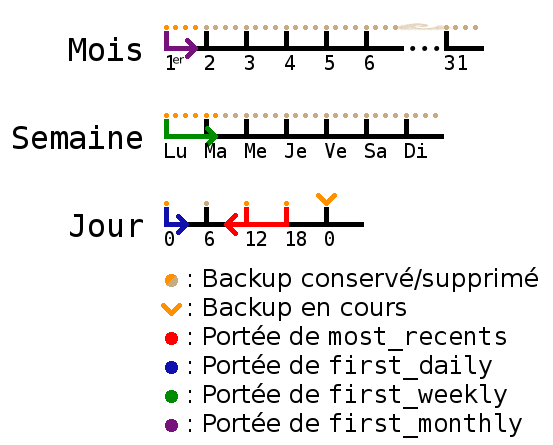
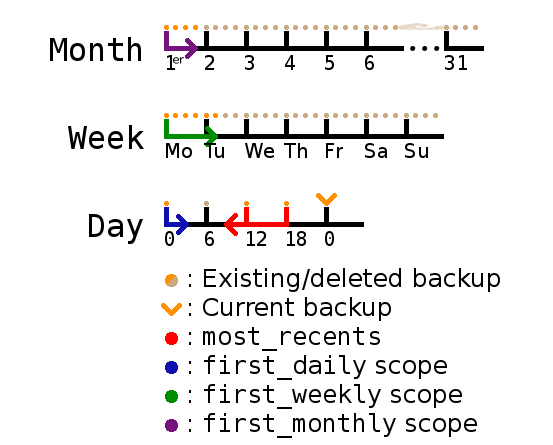
Translated documentation into english

diff --git a/README.md b/README.md
@@ -1,10 +1,20 @@
 # Backupper
 
-Un simple utilitaire de backup de fichiers configurable en YAML.
+A simple backup utility. Configurable with a YAML file.
 
-Voir `./backupper.py -h` pour l'utilisation de la commande.
+See `./backupper.py -h` for command usage.
 
-backupfile.yml minimal :
+## Setup
+
+```
+    sudo ./setup.py install
+    # ou, pour l'installer pour l'utilisateur courant
+    ./setup.py install --user
+```
+
+## Configuration reference
+
+### Minimal backupfile.yml
 
 ```
 backup_dir: /racine/du/dossier/de/sauvegarde
@@ -15,37 +25,27 @@ artifacts:
     - et/caetera
 ```
 
-## Installation
-
-```
-    sudo ./setup.py install
-    # ou, pour l'installer pour l'utilisateur courant
-    ./setup.py install --user
-```
-
-## Référence du backupfile.yml
-
 ### `backup_dir`
 
-* **Définition :** Spécifie le dossier dans lequel le répertoire du backup sera créé. Si le dossier n'existe pas, il sera créé.
-* **Type :** chemin d'accès relatif ou absolu.
-* **Obligatoire :** non, sauf si `delete_old_backups` vaut `true`.
-* **Valeur par défaut :** le dossier courant.
+* **Definition :** specifies the folder in which the backup directory will be created. If the folder doesn't exist, it will be created.
+* **Type :** relative or absolute path.
+* **Mandatory :** no, unless `delete_old_backups` is set to `true`.
+* **Default value :** current working directory.
 
 ### `delete_old_backups`
 
-* **Définition :** Permet de supprimer les précédents backups du dossier de sauvegarde spécifié dans `backup_dir`. Si `cleaning_policy` n'est pas défini, par défaut tous les précédents backups sont supprimés.
-* **Type :** booléen.
-* **Obligatoire :** non.
-* **Valeur par défaut :** `false`.
+* **Definition :** allows you to delete old backups from the backup directory specified in `backup_dir`. If `cleaning_policy` isn't set, all previous backups will be deleted.
+* **Type :** boolean.
+* **Mandatory :** no.
+* **Default value :** `false`.
 
 ### `cleaning_policy`
 
-* **Définition :** Permet de définir une politique fine de gestion des sauvegardes. Sans effet si `delete_old_backups` n'est pas défini ou vaut `false`. 
-* **Type :** au moins un des paramètres ci-dessous.
-* **Obligatoire :** non (en son absence, tous les anciens backups sont supprimés).
+* **Definition :** allows you to define a fine-tuned deletion policy. Will do nothing if `delete_old_backups` is set to `false`.
+* **Type :** at least one of the following parameters.
+* **Mandatory :** no (if not set, all older backups will be deleted).
 
-Chaque paramètre ci-dessous peut-être présent (au moins un). Le schéma ci-dessous explicite leur principe pour la _cleaning policy_ suivante :
+Each parameter below can be set (at least one). The following schema visually presents how they work, assuming this _cleaning policy_:
 
 ```
 cleaning_policy:
@@ -55,40 +55,40 @@ cleaning_policy:
     first_monthly: 4
 ```
 
-![Schéma explicatif de la gestion des backups](cleaning_policy.png "Infographie/20")
+![Backup management schema](cleaning_policy.png "such design wow")
 
-N.B. : Gardez bien à l'esprit que si vous augmentez l'un de ses paramètres d'un backup sur l'autre, vous ne retrouverez pas magiquement vos backups déjà supprimés. Nous vous conseillons donc de bien choisir ces valeurs.
+N.B.: please keep in mind that if you increase one of the parameters between two backups, deleted backups won't magically pop back from nowhere. We strongly advise you to be careful with these values.
 
 #### `most_recents`
 
-* **Définition :** Nombre de backups récents à garder (en plus du backup en cours).
-* **Type :** entier positif ou nul.
-* **Obligatoire :** non.
-* **Valeur par défaut :** `0`.
+* **Definition :** number of recent backups to keep (in addition to the current one).
+* **Type :** natural integer.
+* **Mandatory :** no.
+* **Default value :** `0`.
 
 #### `first_daily`
 
-* **Définition :** Nombre de backups du jour en cours à garder (garde les n premiers backups du jour).
-* **Type :** entier positif ou nul.
-* **Obligatoire :** non.
-* **Valeur par défaut :** `0`.
+* **Definition :** number of daily backups to keep (keeps the n first backups of the current day).
+* **Type :** natural integer.
+* **Mandatory :** no.
+* **Default value :** `0`.
 
 #### `first_weekly`
 
-* **Définition :** Nombre de backups de la semaine en cours à garder (garde les n premiers backups de la semaine).
-* **Type :** entier positif ou nul.
-* **Obligatoire :** non.
-* **Valeur par défaut :** `0`.
+* **Definition :** number of weekly backups to keep (keeps the n first backups of the current week).
+* **Type :** natural integer.
+* **Mandatory :** no.
+* **Default value :** `0`.
 
 #### `first_monthly`
 
-* **Définition :** Nombre de backups du mois en cours à garder (garde les n premiers backups du mois).
-* **Type :** entier positif ou nul.
-* **Obligatoire :** non.
-* **Valeur par défaut :** `0`.
+* **Definition :** number of monthly backups to keep (keeps the n first backups of the current month).
+* **Type :** natural integer.
+* **Mandatory :** no.
+* **Default value :** `0`.
 
 ### `artifacts`
 
-* **Définition :** Spécifie la liste des fichiers et dossiers à sauvegarder.
-* **Type :** liste de chemins d'accès relatifs ou absolus.
-* **Obligatoire :** oui.
+* **Definition :** specifies a list of files and folders to backup.
+* **Type :** a list of absolute or relative paths.
+* **Mandatory :** yes.
